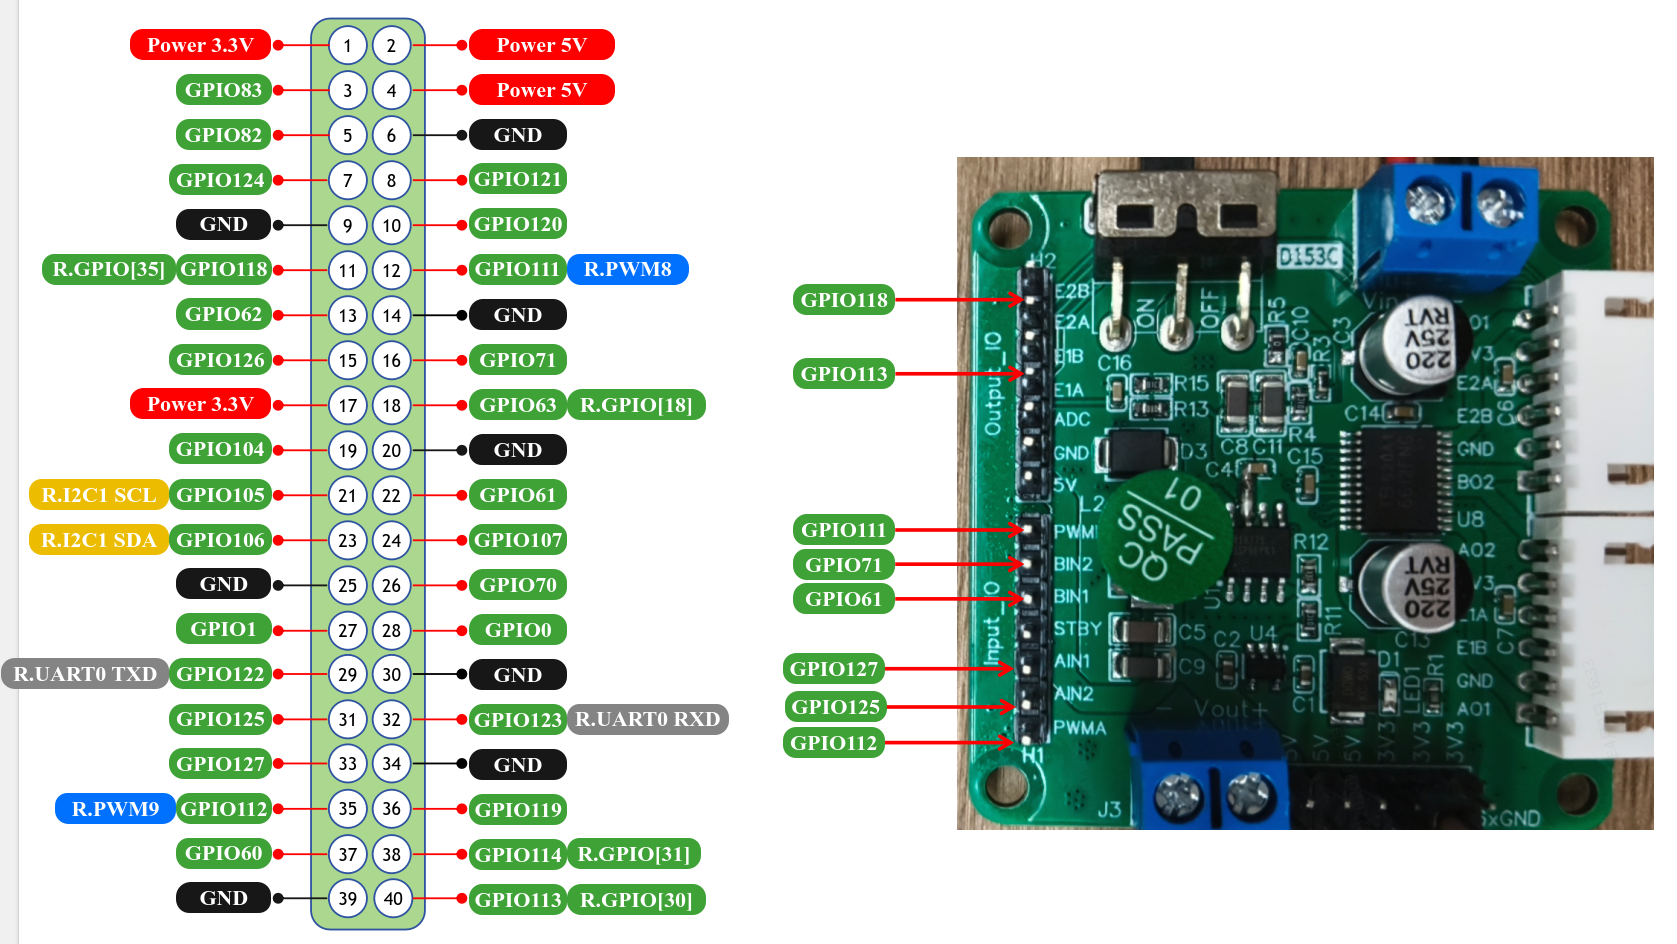
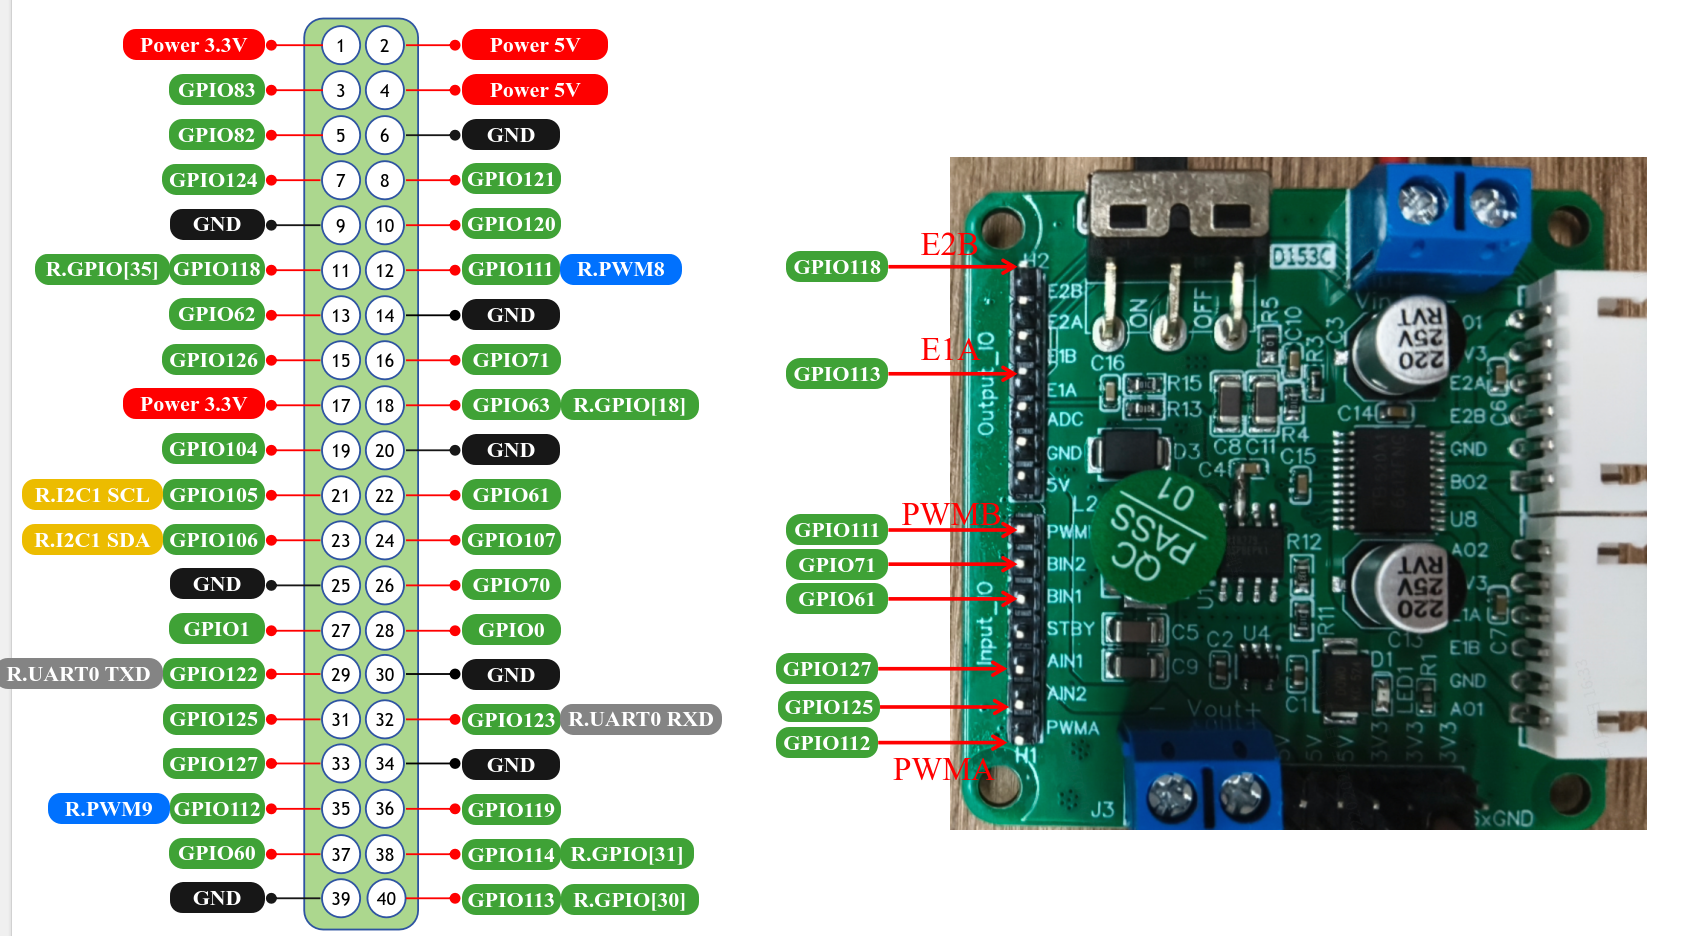
docs(k3): fix encoder phase label in Linksee pinout (#146)
Correct the encoder pin mapping in the Linksee wheeled-robot
reference doc: the second encoder line is phase B (E2B), not
phase A (E1B). Also update the pin connection diagram image to
match.

diff --git a/zh/k3/03-参考方案/3.2-轮式机器人Linksee.md b/zh/k3/03-参考方案/3.2-轮式机器人Linksee.md
@@ -150,7 +150,7 @@ Linksee 移动抓取方案中的机械臂使用 [ARM101 从臂](https://github.c
 | 方向控制 0  | GPIO 71 -> BIN2              | H 桥控制  |
 | 方向控制 1  | GPIO 61 -> BIN1              | H 桥控制  |
 | PWM         | rpwm8 (GPIO 111) -> PWMB     | 10KHz PWM |
-| 编码器 A 相 | GPIO 118（R.GPIO[35]）-> E1B | 中断输入  |
+| 编码器 B 相 | GPIO 118（R.GPIO[35]）-> E2B | 中断输入  |
 
 **注意**：不同电机的正反定义可能不同，可以调整方向控制的次序直到电机的转向符合预期
 